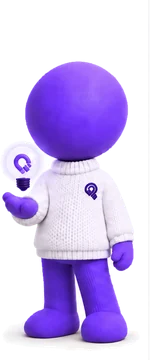
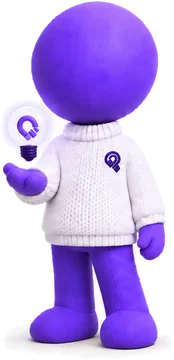
Designio: quitar línea divisoria del recorte y ajustar dimensiones

diff --git a/index.html b/index.html
@@ -1091,7 +1091,7 @@ footer a{color:var(--turq);font-weight:600;text-decoration:none}
       <div class="vis-stage">
         <picture>
           <source media="(max-width:999px)" srcset="designio/designio-frontal-sm.webp" type="image/webp">
-          <img class="designio designio-hero" src="designio/designio-frontal.webp" width="296" height="720" decoding="async"
+          <img class="designio designio-hero" src="designio/designio-frontal.webp" width="315" height="630" decoding="async"
                alt="Designio, la mascota de Designia: un personaje de arcilla violeta con suéter blanco que sostiene una bombilla con un imán dentro">
         </picture>
         <div class="vcard vcard-chat" aria-hidden="true">
@@ -1254,7 +1254,7 @@ footer a{color:var(--turq);font-weight:600;text-decoration:none}
             <button class="btn btn-line" id="dxReset" type="button">Repetir</button>
           </div>
         </div>
-        <div class="dx-mascota" aria-hidden="true"><img src="designio/designio-34-sm.webp" alt="" width="150" height="360" loading="lazy" decoding="async"></div>
+        <div class="dx-mascota" aria-hidden="true"><img src="designio/designio-34-sm.webp" alt="" width="174" height="360" loading="lazy" decoding="async"></div>
       </div>
     </div>
   </div>
@@ -1693,7 +1693,7 @@ footer a{color:var(--turq);font-weight:600;text-decoration:none}
             <li><svg class="ic-s" aria-hidden="true"><use href="#ic-chat"/></svg>Una conversación de 20 minutos para revisarlo juntos.</li>
           </ul>
           <p class="garantia"><b>Sin costo y sin compromiso.</b> No pedimos accesos ni datos de pago para el diagnóstico. Si después decides trabajar con nosotros, la permanencia mínima es de 3 meses — el tiempo real que toma demostrar algo.</p>
-          <img class="designio designio-contacto" src="designio/designio-frontal-sm.webp" alt="Designio, la mascota de Designia" width="148" height="360" loading="lazy" decoding="async">
+          <img class="designio designio-contacto" src="designio/designio-frontal-sm.webp" alt="Designio, la mascota de Designia" width="180" height="360" loading="lazy" decoding="async">
         </div>
 
         <form class="form-reset" id="formContacto" data-reveal="right" novalidate>
